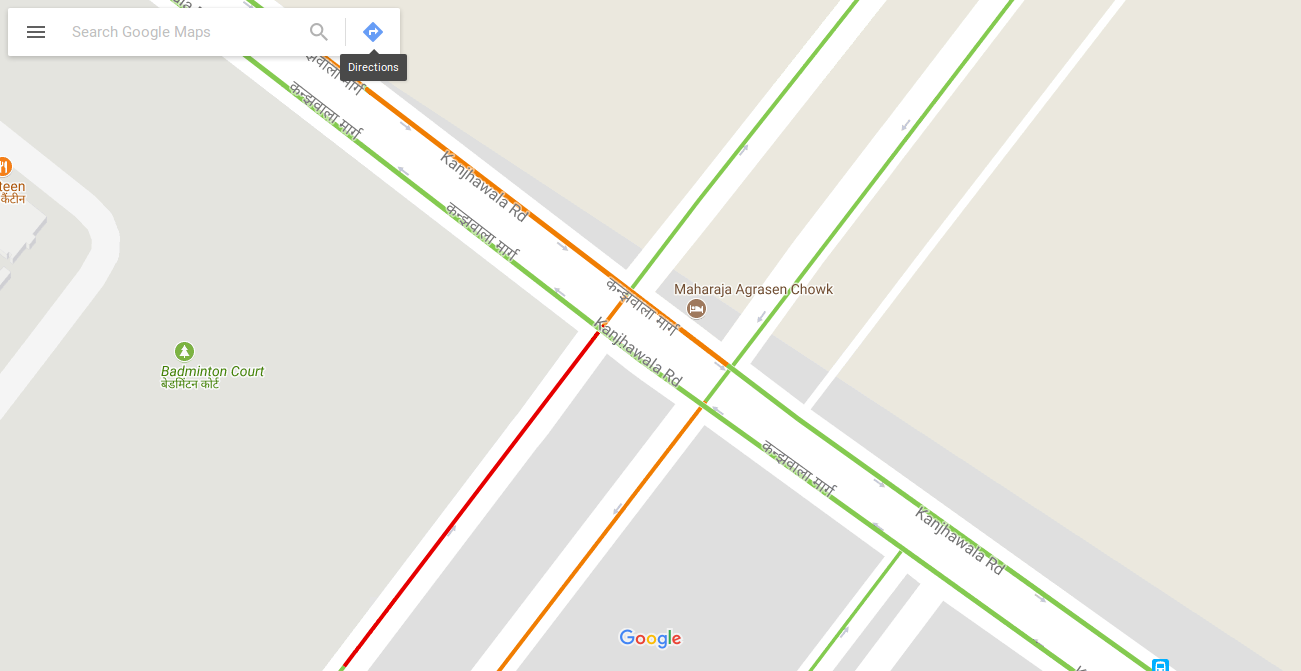
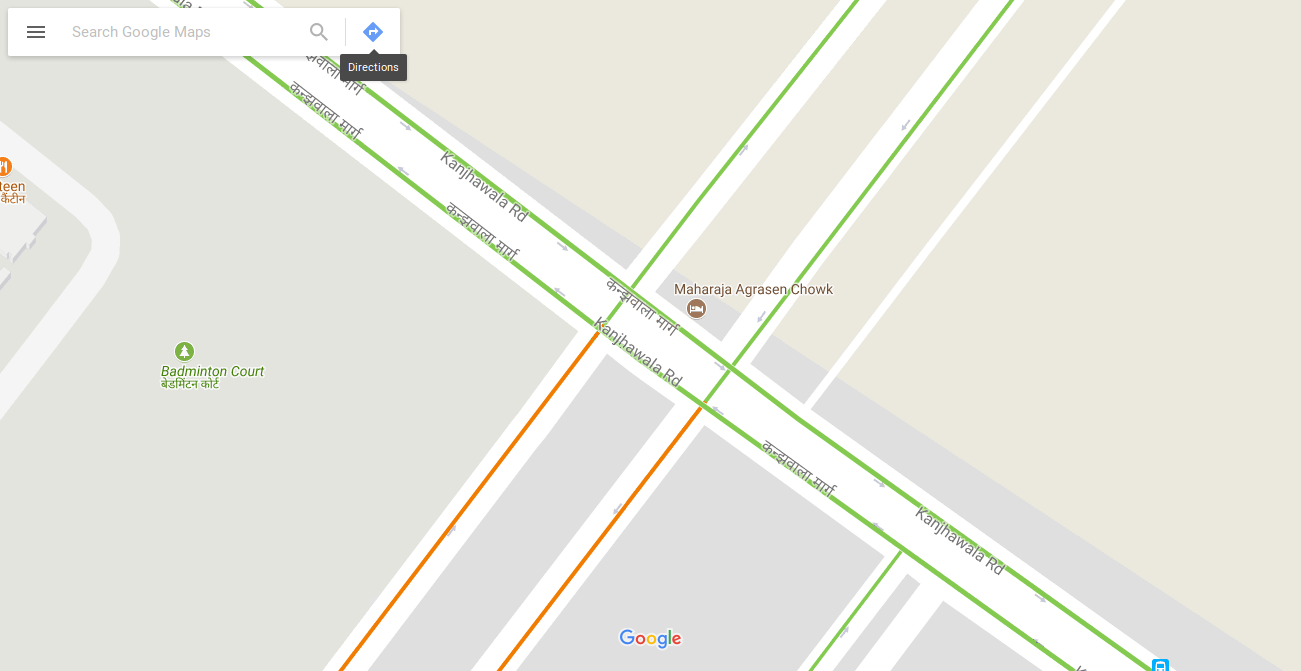
rotated the map

diff --git a/crossing.py b/crossing.py
@@ -17,13 +17,25 @@ class crossing:
 
     def fetch(self):
         img = cv2.imread(self.name+".png")
-        hsv = cv2.cvtColor(img, cv2.COLOR_BGR2HSV)
+	
+	#to rotate the image by 40 degrees counterclockwise
+	rows,cols,channels = img.shape
+	M = cv2.getRotationMatrix2D((cols/2,rows/2),40,1)
+	dst = cv2.warpAffine(img,M,(cols,rows))
+	
+	#to print the color value in given pixel region
+	road1 = img[350:650, 620:630]	
+	print road1
+
+        hsv = cv2.cvtColor(dst, cv2.COLOR_BGR2HSV)
         lower = np.array([6, 100, 100])
         upper = np.array([26, 255, 255])
         mask = cv2.inRange(hsv, lower, upper)
-        res = cv2.bitwise_and(img, img, mask=mask)
-        cv2.imshow('frame', img)
-        cv2.imshow('mask', mask)
+        res = cv2.bitwise_and(dst, dst, mask=mask)
+
+        #cv2.imshow('frame', img)
+	cv2.imshow('rotated', dst)
+        #cv2.imshow('mask', mask)
         cv2.imshow('res', res)
 
     def getName(self):

diff --git a/CrossingGUI.py b/CrossingGUI.py
@@ -2,7 +2,7 @@
 
 import Tkinter
 top = Tkinter.Tk()
-# Code to add widgets will go here...
+#currently run it as a seperate file  using "python CrossingGUI.py"
 
 C = Tkinter.Canvas(top, bg="#b0b0b0", height=600, width=600)
 

diff --git a/main.py b/main.py
@@ -1,4 +1,4 @@
-import cv2, thread, time
+import cv2, thread, time	
 from selenium import webdriver
 import os.path
 import os
